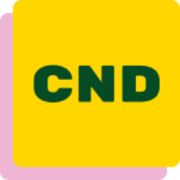
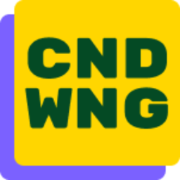
sticky nav even tho nothing scrolls lol

diff --git a/style.css b/style.css
@@ -7,34 +7,35 @@ body {
 
 nav {
     text-align: center;
+    position: sticky;
+    top: 0;
 }
 
 nav ul {
     display: flex;
     justify-content: center;
     list-style-type: none;
-    padding: 0;
+    padding: 1.5rem 0;
+    margin: 0;
 }
 
 nav li {
     display: flex;
     width: fit-content;
-    border-radius: 0.5rem;
 }
 
-nav li#home { 
+#home a, #home a:visited {
     padding: 0.5rem 1rem;
     background-color: #FFD600;
+    border-radius: 0.5rem;
     font-family: 'Rubik Mono One', 'Space Mono', 'Space Grotesk', sans-serif;
     font-size: 3rem;
-}
-
-nav li#home a, nav li#home a:visited {
     color: #044A24;
     text-decoration: none;
+    transition: 0.2s ease-in-out;
 }
 
-nav li#home:hover {
+#home a:hover {
     transition: 0.2s;
     box-shadow: -8px 8px #044A24;
     transform: translate(4px, -4px);
@@ -43,6 +44,11 @@ nav li#home:hover {
 #no-vowels {
     font-size: 0.75rem;
     margin-top: -0.5rem;    
+}
+
+.minimize-nav #home a {
+    font-size: 2rem;
+    transition: 0.2s ease-in-out;
 }
 
 main {
@@ -55,7 +61,6 @@ main {
     display: flex;
     justify-content: center;
     align-items: center;
-    margin-top: 2rem;
 }
 
 .nametag-image {
@@ -259,6 +264,10 @@ footer a:hover {
 @media screen and (max-width: 480px) {
     main {
         padding: 1rem;
+    }
+
+    nav ul {
+        padding: 1rem 0;
     }
 
     .nametag-image {

diff --git a/index.html b/index.html
@@ -4,7 +4,7 @@
         <meta charset="UTF-8" />
         <meta name="viewport" content="width=device-width, initial-scale=1">
         <meta property="og:image" content="/images/preview.jpg">
-        <meta property="og:description" content="A portfolio site highlighting design work by Cindy Wang."/>
+        <meta property="og:description" content="Cindy Wang + no vowels = CNDWNG (a portfolio site)"/>
         <meta property="og:type" content="blog"/>
         <title>home • cndwng</title>
         <link rel="apple-touch-icon" sizes="180x180" href="/apple-touch-icon.png">
@@ -74,4 +74,23 @@
         </ul>
     </footer>
 </body>
+<script>
+    const nav = document.querySelector("nav");
+    const navHeight = nav.offsetHeight;
+    let isMin = false;
+
+    window.addEventListener("scroll", mininimizeNav);
+
+    function mininimizeNav() {
+        console.log(window.scrollY);
+        if (window.scrollY >= (navHeight) && !isMin) {
+            nav.classList.add("minimize-nav");
+            isMin = true;
+        } else if (window.scrollY < (navHeight - 24) && isMin){
+            nav.classList.remove("minimize-nav");
+            isMin = false;
+        }
+    }
+    
+</script>
 </html>

diff --git a/bio.html b/bio.html
@@ -4,7 +4,7 @@
         <meta charset="UTF-8" />
         <meta name="viewport" content="width=device-width, initial-scale=1">
         <meta property="og:image" content="/images/preview.jpg">
-        <meta property="og:description" content="A portfolio site highlighting design work by Cindy Wang."/>
+        <meta property="og:description" content="Cindy Wang + no vowels = CNDWNG (a portfolio site)"/>
         <meta property="og:type" content="blog"/>
         <title>home • cndwng</title>
         <link rel="apple-touch-icon" sizes="180x180" href="/apple-touch-icon.png">

diff --git a/404.html b/404.html
@@ -4,7 +4,7 @@
         <meta charset="UTF-8" />
         <meta name="viewport" content="width=device-width, initial-scale=1">
         <meta property="og:image" content="/images/preview.jpg">
-        <meta property="og:description" content="A portfolio site highlighting design work by Cindy Wang."/>
+        <meta property="og:description" content="Cindy Wang + no vowels = CNDWNG (a portfolio site)"/>
         <meta property="og:type" content="blog"/>
         <title>404 • cndwng</title>
         <link rel="apple-touch-icon" sizes="180x180" href="/apple-touch-icon.png">

diff --git a/graphics.html b/graphics.html
@@ -188,9 +188,9 @@
 
     window.onscroll = function() {stickyNav()};
 
-    var navbar = document.getElementById("myTopnav");
+    const nav = document.getElementById("myTopnav");
 
-    var sticky = navbar.offsetTop;
+    const offset = navbar.offsetTop;
 
     function stickyNav() {
         if (window.pageYOffset >= sticky) {
